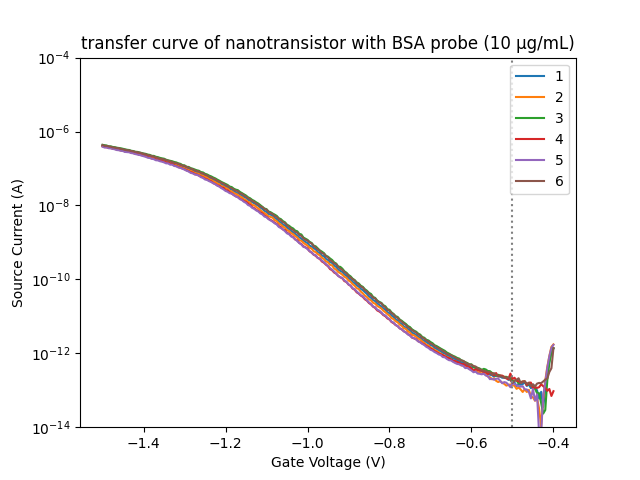
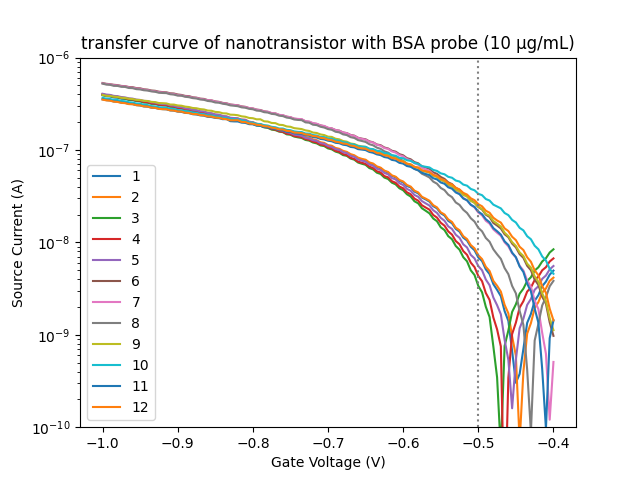
rna

diff --git a/src/plot_one_curve.py b/src/plot_one_curve.py
@@ -14,7 +14,7 @@ for i, file_path in enumerate(file_path_list):
         raw_data = f.read()
     c_data = extract_curr_list(raw_data)
     # TODO: chip name
-    data = TransistorData(ChipName.SQUARE, "A13", str(i + 1), -0.4, -1.5, -0.005, c_data)
+    data = TransistorData(ChipName.SQUARE, "A13", str(i + 1), -0.4, -1.0, -0.005, c_data)
     data_list.append(data)
     print(data.info())
 
@@ -23,7 +23,7 @@ plot_data_list(
     data_list,
     xlabel="Gate Voltage (V)",
     ylabel="Source Current (A)",
-    ylim=[1e-14, 1e-4],
+    ylim=[1e-10, 1e-6],
     title="transfer curve of nanotransistor with BSA probe (10 μg/mL)",
     xline=-0.5
 )

diff --git a/src/compare_average.py b/src/compare_average.py
@@ -33,7 +33,7 @@ plot_data_list(
     data_list_for_comparison,
     xlabel="Gate Voltage (V)",
     ylabel="Source Current (A)",
-    ylim=[1e-12, 1e-4],
+    ylim=[1e-10, 1e-4],
     title="Extended gate test",
     xline=-0.5,
 )
